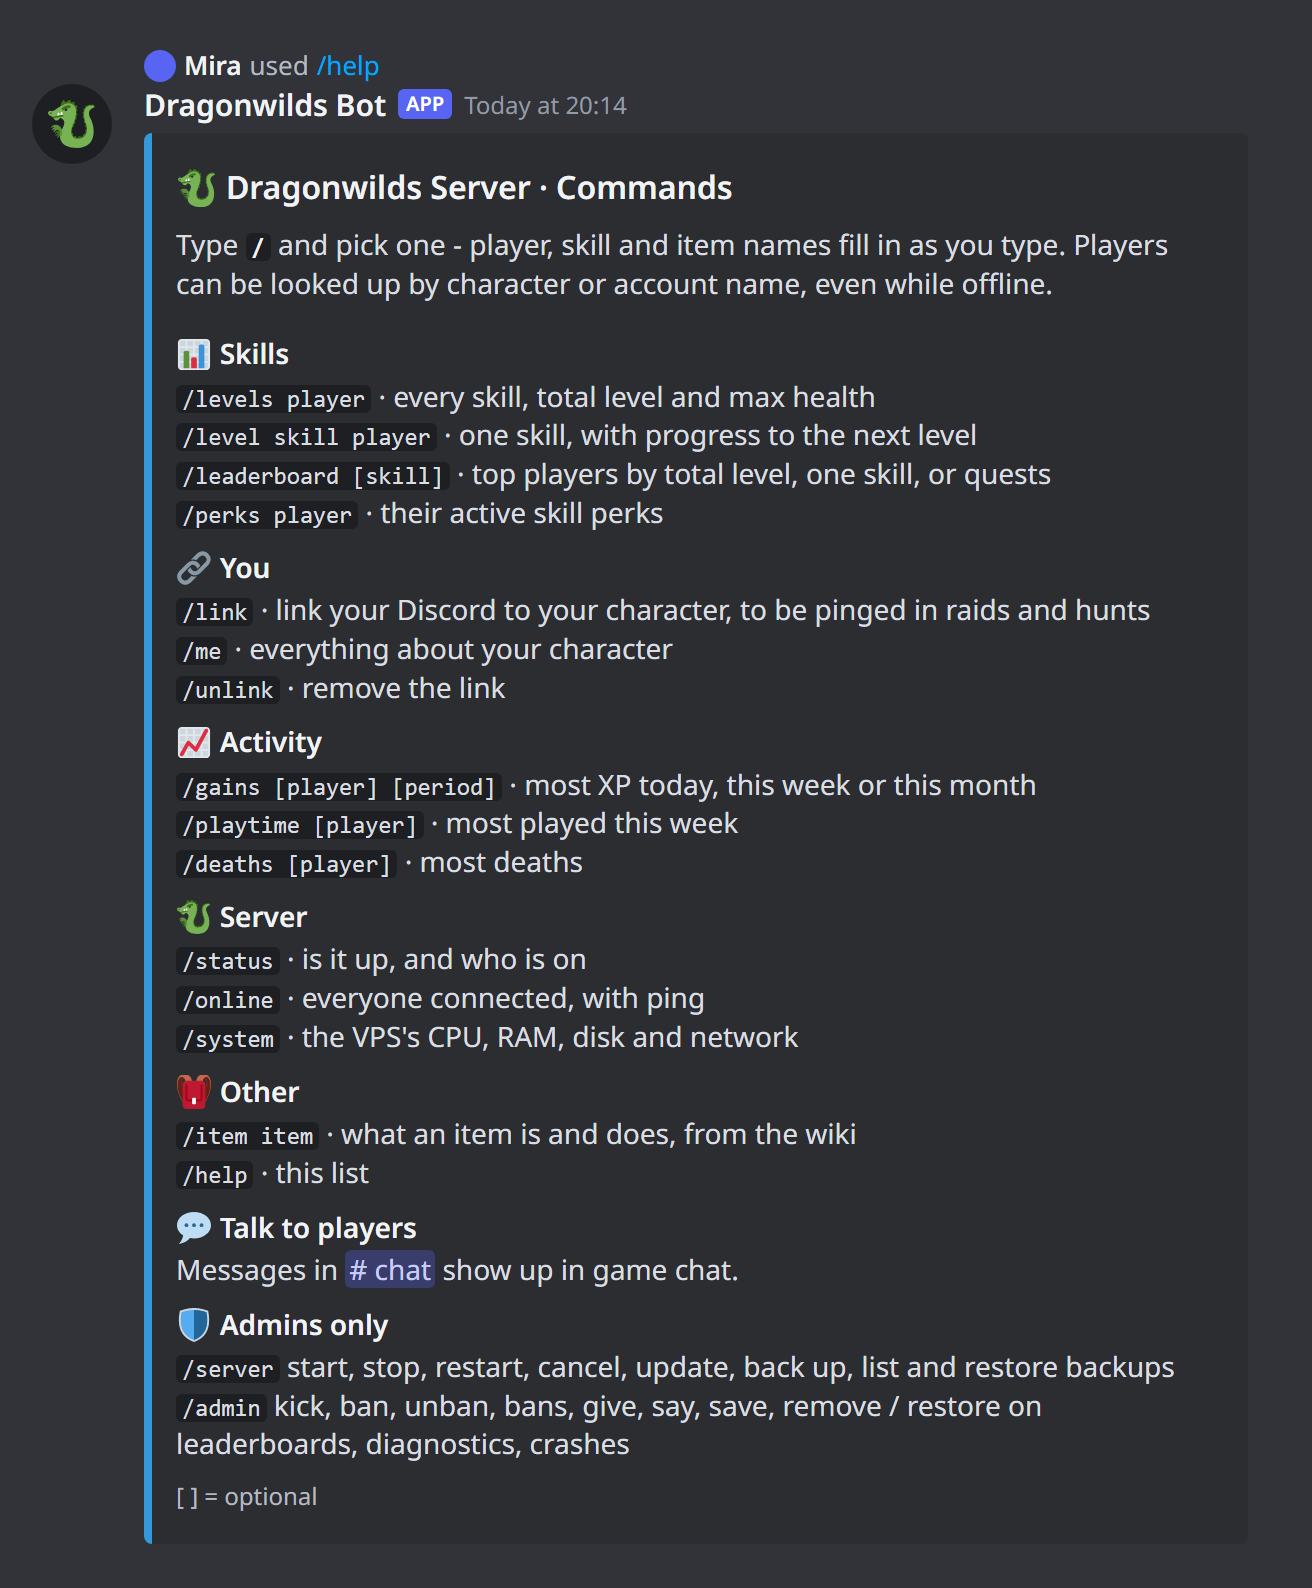
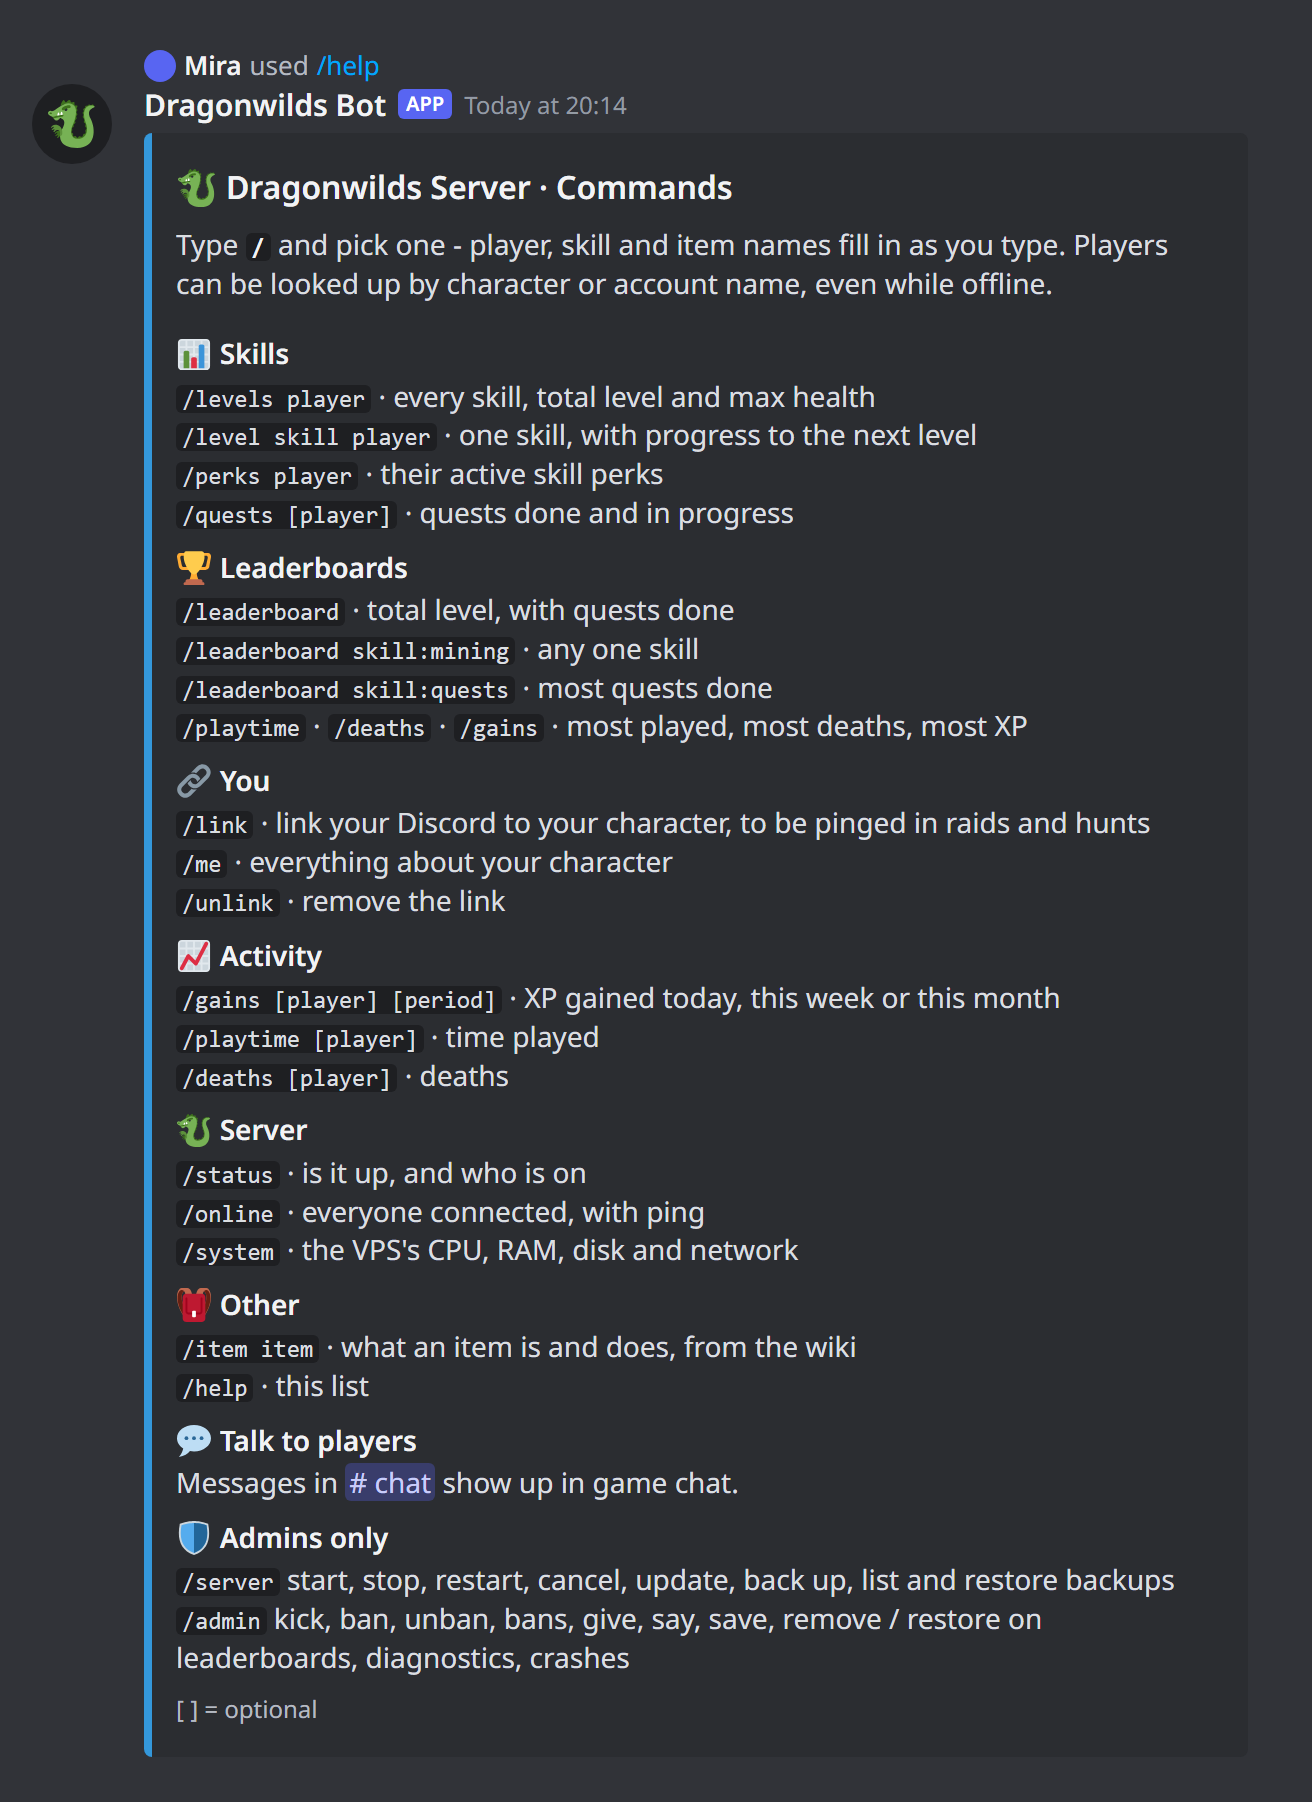
Bot: /quests, leaderboard examples in the command list, quests screenshot
/quests [player] lists quests done by kind and in progress with the current
step - your own linked character's without a name, or the quest leaderboard
if you haven't linked one. The pinned command list gets a Leaderboards
section with examples.

Changed region(s): [[0.0312, 0.0309, 0.9062, 0.9565], [0.75, 0.4937, 0.7812, 0.5246], [0.6875, 0.4937, 0.7188, 0.5246]]

diff --git a/bot/src/embeds.js b/bot/src/embeds.js
@@ -274,6 +274,33 @@ export function perksEmbed(profile) {
     return embed.setFooter({ text: `${perks.active.length} active${max}` });
 }
 
+// /quests player: everything done, by kind, and what's in progress.
+export function questsEmbed(profile) {
+    const embed = playerEmbed(profile, 0x9b59b6).setTitle('📜 Quests');
+    const quests = questStats(profile.player);
+    if (!quests) return embed.setDescription('No quest data yet - quests show up once they have been online with mod 0.6.0.');
+    if (!quests.done && !quests.active.length) return embed.setDescription('No quests started yet.');
+
+    const list = (items, max = 15) => {
+        const names = items.slice(0, max).map(q => `• ${questName(q)}`);
+        if (items.length > max) names.push(`…and ${items.length - max} more`);
+        return names.join('\n').slice(0, 1024);
+    };
+    const split = [quests.main && `${quests.main} main`, quests.side && `${quests.side} side`, quests.tasks && `${quests.tasks} tasks`].filter(Boolean);
+    embed.setDescription(`### ${quests.done} done${split.length ? ` · ${split.join(' · ')}` : ''}`);
+    if (quests.active.length) {
+        embed.addFields({
+            name: `🧭 In progress · ${quests.active.length}`,
+            value: quests.active.slice(0, 8).map(q => `• **${questName(q)}**${q.objective ? `\n-# ${objectiveName(q.objective)}` : ''}`).join('\n').slice(0, 1024),
+        });
+    }
+    for (const [kind, title] of [['main', '⭐ Main quests'], ['side', '📜 Side quests'], ['task', '📋 Tasks']]) {
+        const done = quests.completed.filter(q => q.kind === kind);
+        if (done.length) embed.addFields({ name: `${title} · ${done.length}`, value: list(done), inline: true });
+    }
+    return embed.setFooter({ text: '/leaderboard skill:quests ranks everyone by quests done' });
+}
+
 // The second card of /me: quests, journal, playtime and deaths.
 export function progressEmbed(profile, { playtime, deaths }) {
     const embed = playerEmbed(profile, 0x9b59b6).setTitle('📜 Progress');
@@ -808,8 +835,17 @@ export function helpEmbed() {
                 value: [
                     '`/levels player` · every skill, total level and max health',
                     '`/level skill player` · one skill, with progress to the next level',
-                    '`/leaderboard [skill]` · top players by total level, one skill, or quests',
                     '`/perks player` · their active skill perks',
+                    '`/quests [player]` · quests done and in progress',
+                ].join('\n'),
+            },
+            {
+                name: '🏆 Leaderboards',
+                value: [
+                    '`/leaderboard` · total level, with quests done',
+                    '`/leaderboard skill:mining` · any one skill',
+                    '`/leaderboard skill:quests` · most quests done',
+                    '`/playtime` · `/deaths` · `/gains` · most played, most deaths, most XP',
                 ].join('\n'),
             },
             {
@@ -823,9 +859,9 @@ export function helpEmbed() {
             {
                 name: '📈 Activity',
                 value: [
-                    '`/gains [player] [period]` · most XP today, this week or this month',
-                    '`/playtime [player]` · most played this week',
-                    '`/deaths [player]` · most deaths',
+                    '`/gains [player] [period]` · XP gained today, this week or this month',
+                    '`/playtime [player]` · time played',
+                    '`/deaths [player]` · deaths',
                 ].join('\n'),
             },
             {

diff --git a/bot/src/commands.js b/bot/src/commands.js
@@ -24,6 +24,7 @@ import {
     perksEmbed,
     progressEmbed,
     questLeaderboardEmbed,
+    questsEmbed,
 } from './embeds.js';
 import { questStats } from './progress.js';
 import { logger } from './log.js';
@@ -233,6 +234,20 @@ async function perks(ctx, query) {
     return { reply: { embeds: [perksEmbed(result.profile)] } };
 }
 
+// A player's quests; without a name, your own linked character's, or the
+// quest leaderboard if you haven't linked one.
+async function quests(ctx, query, user) {
+    if (!query) {
+        const link = ctx.links.of(user.id);
+        if (!link) return leaderboard(ctx, QUESTS_BOARD);
+        query = link.name;
+    }
+    const result = await resolvePlayer(ctx, query);
+    if (result.ambiguous) return { reply: { embeds: [ambiguousEmbed(query, result.ambiguous)] } };
+    if (result.notFound) return notFoundReply(query, result);
+    return { reply: { embeds: [questsEmbed(result.profile)] } };
+}
+
 // The linked character: online it's live, otherwise its last snapshot.
 async function me(ctx, user) {
     const link = ctx.links.of(user.id);
@@ -305,6 +320,7 @@ export const commands = {
     level: (i, ctx) => level(ctx, i.options.getString('skill', true), i.options.getString('player', true)),
     leaderboard: (i, ctx) => leaderboard(ctx, i.options.getString('skill')),
     perks: (i, ctx) => perks(ctx, i.options.getString('player', true)),
+    quests: (i, ctx) => quests(ctx, i.options.getString('player'), i.user),
     me: (i, ctx) => me(ctx, i.user),
     link: (i, ctx) => link(ctx, i),
     unlink: (i, ctx) => unlink(ctx, i.user),

diff --git a/bot/src/slash.js b/bot/src/slash.js
@@ -32,6 +32,10 @@ export const definitions = [
         .setName('perks')
         .setDescription("A player's active skill perks")
         .addStringOption(playerOption),
+    new SlashCommandBuilder()
+        .setName('quests')
+        .setDescription("A player's quests - done and in progress")
+        .addStringOption(o => o.setName('player').setDescription('Leave empty for your own linked character').setAutocomplete(true)),
     new SlashCommandBuilder().setName('me').setDescription('Everything about your linked character'),
     new SlashCommandBuilder().setName('link').setDescription('Link your Discord to your in-game character with a one-time code'),
     new SlashCommandBuilder().setName('unlink').setDescription('Remove the link to your in-game character'),

diff --git a/README.md b/README.md
@@ -34,7 +34,7 @@ Live player stats, two-way chat, leaderboards, server control and alerts - all f
 - **`/levels`, `/level`** - any player's skills, live or from the last time they were seen
 - **`/leaderboard`** - by total level, any skill or quests done, 🥇🥈🥉
 - **`/me`** - everything about your own character: skills, quests, journal, playtime
-- **`/perks`** - a player's active skill perks
+- **`/quests`** - quests done and in progress · **`/perks`** - active skill perks
 - **🔗 One-click account linking** - press a button, type a short code in game
 - **`/gains`** - who gained the most XP today, this week or this month
 - **`/playtime`, `/deaths`** - most played, most deaths
@@ -167,8 +167,9 @@ Live player stats, two-way chat, leaderboards, server control and alerts - all f
 </td>
 <td width="50%" valign="top">
 
-**📜 Quests and ✨ perks** · a quest leaderboard and each player's skill perks
+**📜 Quests and ✨ perks** · each player's quests, a quest leaderboard and skill perks
 
+<img src="bot/docs/screenshots/quests.png" alt="/quests">
 <img src="bot/docs/screenshots/quest-leaderboard.png" alt="/leaderboard quests">
 <img src="bot/docs/screenshots/perks.png" alt="/perks">
 

diff --git a/bot/README.md b/bot/README.md
@@ -32,6 +32,7 @@ players first 🟢, then everyone seen before ⚫. Short skill names work too: `
 | 📊 **`/levels`** `player` | Every skill by category, total level and max health |
 | 🪓 **`/level`** `skill` `player` | One skill in detail, with a progress bar to the next level |
 | 🏆 **`/leaderboard`** `[skill]` | Top players by total level (with quests done), by XP in one skill, or `quests` for the most quests |
+| 📜 **`/quests`** `[player]` | Quests done (main, side, tasks) and in progress with the current step - your own when linked |
 | ✨ **`/perks`** `player` | Their active skill perks, by skill |
 | 🙋 **`/me`** | Everything about your linked character: skills, quests done and in progress, journal, playtime, deaths |
 | 🔗 **`/link`** 🔒 · **`/unlink`** 🔒 | Link your Discord to your character - see [Account linking](#-account-linking) |
